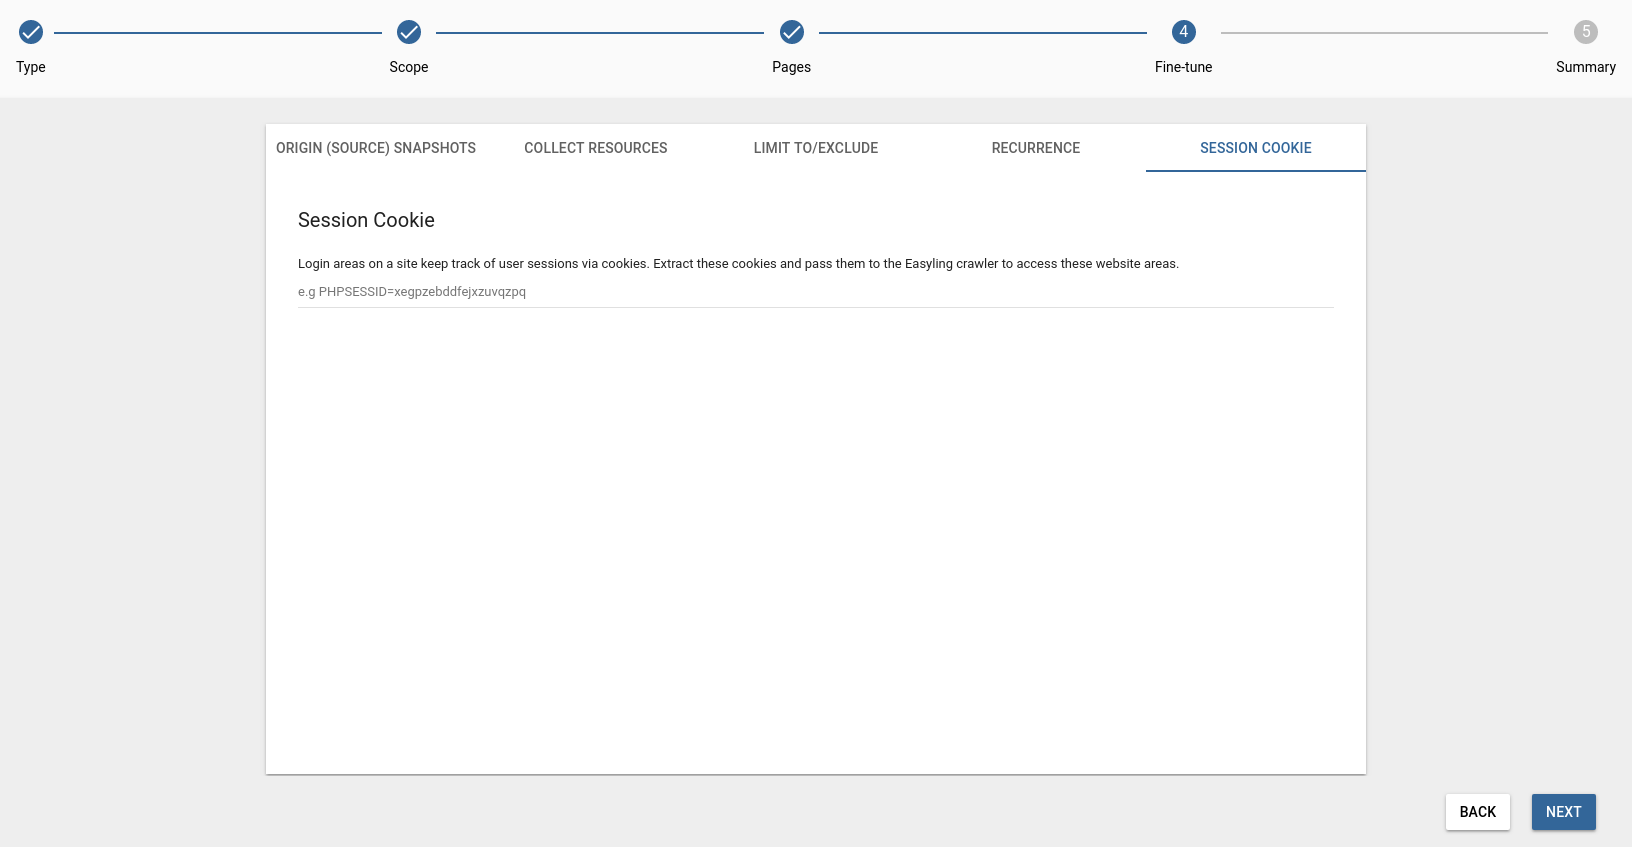
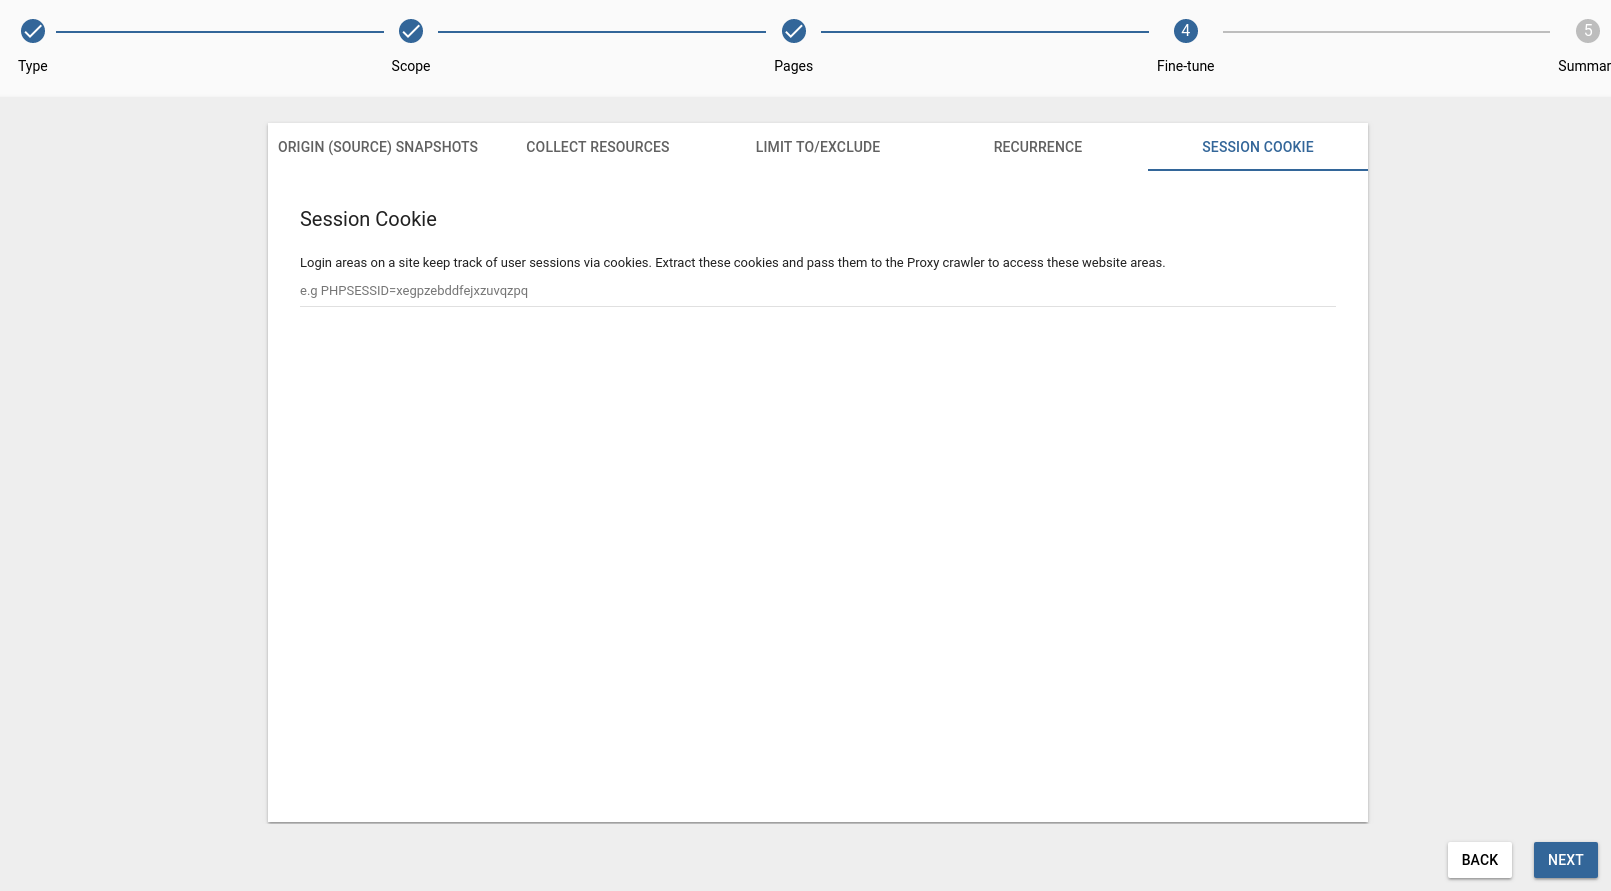
delete Easyling references

diff --git a/troubleshooting/contact.md b/troubleshooting/contact.md
@@ -2,7 +2,7 @@
 
 Website translation can be a complex task, even with the help of a piece of software like the proxy. Finding the root of the problem can be equally complex for those of us on support duty. Therefore, we would like to give you a few pointers on what information to supply if you decide to contact us.
 
-This first thing we need is the **project code**. This eight-character unique string uniquely identifies the project. As you can see in the screenshot below, the project code is located in the address bar of your browser - you can copy the entire URL for us, but the project code by itself should suffice.
+This first thing we need is the **project code**. This eight-character unique string uniquely identifies the project. As you can see in the screenshot below, the project code is located in the Dashboard 2.0 --> Project overview.
 
 ![The project code can be found easiest from the browser Address Bar](../img/ProjectCode.png )
 

diff --git a/dashboard/cookbook/proxymodes.md b/dashboard/cookbook/proxymodes.md
@@ -12,7 +12,7 @@ There are a couple of situations, when the X-proxy comes in handy:
 
 * Just browsing through a site, for evaluation purposes.
 
-An example X-proxy URL: `https://de-de-{project_code}-x.app.easyling.com`
+An example X-proxy URL: `https://de-de-{project_code}-x.app.proxytranslation.com`
 
 The X-proxy can be accessed from the pages list under Content (or Discovery) by clicking on the Preview button in the hover toolbar, while holding down the Ctrl/Cmd button, or you can just replace the -p for a -x in the normal preview's URL for the same effect.
 
@@ -24,7 +24,7 @@ The standard proxy mode to view the translated website before publishing. Howeve
 
 * Visiting pages manually, to ingest content
 
-An example Preview-proxy URL: `https://de-de-{project_code}-p.app.easyling.com`
+An example Preview-proxy URL: `https://de-de-{project_code}-p.app.proxytranslation.com`
 
 ## C - Channel
 

diff --git a/index.rst b/index.rst
@@ -1,6 +1,3 @@
-.. image:: img/misc/logo.png
-   :align: center
-
 ===================
 User Documentation
 ===================
